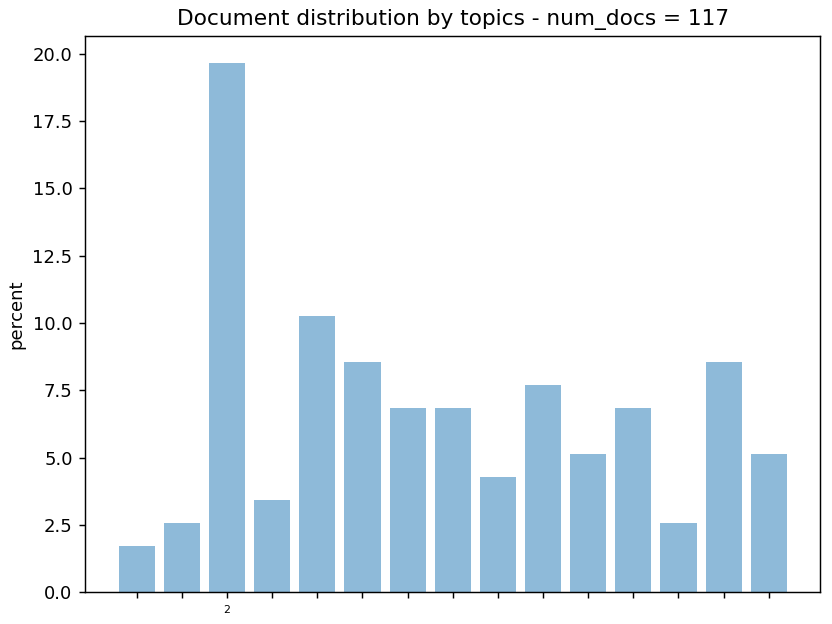
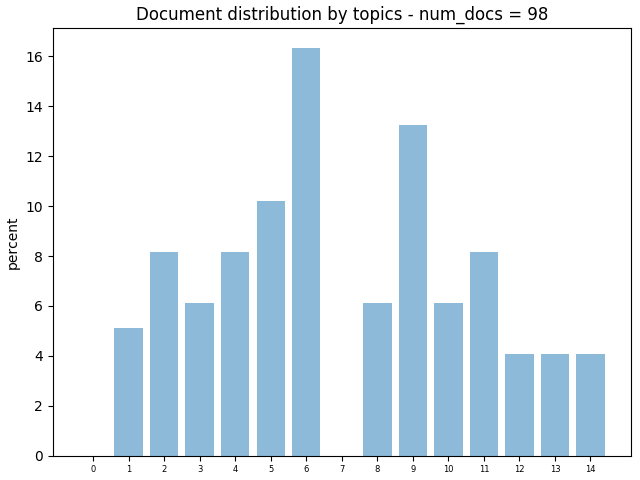
fix error not match title when run twice

diff --git a/master.py b/master.py
@@ -8,8 +8,12 @@ from text_classification import my_map
 from collections import Counter
 from multiprocessing import Process
 import time, datetime
-from sklearn.externals import joblib
+import warnings
 
+
+
+
+warnings.filterwarnings('ignore', category=UserWarning)
 
 
 class master:
@@ -32,8 +36,6 @@ class master:
 
             print('run crawler...')
             self.crawler.run()
-            joblib.dump(self.crawler.new_stories, 'new_stories.pkl')
-            # self.crawler.new_stories = joblib.load('new_stories.pkl')
 
             print('run text classification...')
             self.text_clf.reset()
@@ -88,22 +90,22 @@ class master:
                 continue
             if ndocs > 1000:
                 event = event_detection(domain, os.path.join(self.text_clf.result_dir, domain),
-                                        root_dir='event_detection', num_topics=100)
+                                        root_dir='event_detection', num_topics=100, max_iter=1000)
             elif 500 < ndocs and ndocs <= 1000:
                 event = event_detection(domain, os.path.join(self.text_clf.result_dir, domain),
-                                        root_dir='event_detection', num_topics=50)
+                                        root_dir='event_detection', num_topics=50, max_iter=1000)
             elif 350 < ndocs and ndocs <= 500:
                 event = event_detection(domain, os.path.join(self.text_clf.result_dir, domain),
-                                        root_dir='event_detection', num_topics=30)
+                                        root_dir='event_detection', num_topics=30, max_iter=1000)
             elif 200 < ndocs and ndocs <= 350:
                 event = event_detection(domain, os.path.join(self.text_clf.result_dir, domain),
-                                        root_dir='event_detection', num_topics=20)
+                                        root_dir='event_detection', num_topics=20, max_iter=1000)
             elif 50 < ndocs and ndocs <= 200:
                 event = event_detection(domain, os.path.join(self.text_clf.result_dir, domain),
-                                        root_dir='event_detection', num_topics=15)
+                                        root_dir='event_detection', num_topics=15, max_iter=1000)
             else:
                 event = event_detection(domain, os.path.join(self.text_clf.result_dir, domain),
-                                        root_dir='event_detection', num_topics=10)
+                                        root_dir='event_detection', num_topics=10, max_iter=1000)
             events.update({domain : event})
             handle = Process(target=events[domain].run_demo)
             handle.start()

diff --git a/event_detection/create_lda_data.py b/event_detection/create_lda_data.py
@@ -8,11 +8,11 @@ import os
 
 
 
-def build_vocab(dataset, output_vocab, root_dir):
+def build_vocab(dataset, output_vocab, root_dir, title_map):
     vectorizer = TfidfVectorizer(ngram_range=(1, 1), max_df=0.6, min_df=2,
                                  stop_words=utils.load_data_from_list(os.path.join(root_dir, 'stopwords.txt')))
     stack = os.listdir(dataset)
-    contents = []
+    contents = []; titles = []
     while (len(stack) > 0):
         file_name = stack.pop()
         file_path = os.path.join(dataset, file_name)
@@ -20,7 +20,10 @@ def build_vocab(dataset, output_vocab, root_dir):
             utils.push_data_to_stack(stack, file_path, file_name)
         else:
             with open(file_path, 'r', encoding='utf-8') as f:
-                contents.append(f.read().lower())
+                content = f.read()
+                base = os.path.basename(file_name)
+                titles.append(title_map[base])
+                contents.append(content.lower())
     # change vectorizer to ensure length of document greater than 0
     if len(contents) < 100:
         vectorizer.min_df = 1
@@ -30,13 +33,11 @@ def build_vocab(dataset, output_vocab, root_dir):
     with open(output_vocab, 'w', encoding='utf-8') as f:
         vocab = {w:i for i, w in enumerate(vectorizer.vocabulary_.keys())}
         f.write(u'\n'.join(vocab.keys()))
-    return contents
+    return contents, titles
 
 
-def get_title(dataset, output_dir, output_file):
+def update_title_map(dataset, title_map):
     stack = os.listdir(dataset)
-    utils.mkdir(output_dir)
-    titles = []
     while (len(stack) > 0):
         file_name = stack.pop()
         file_path = os.path.join(dataset, file_name)
@@ -46,13 +47,13 @@ def get_title(dataset, output_dir, output_file):
             with open(file_path, 'r', encoding='utf-8') as f:
                 data = unicodedata.normalize('NFKC', f.read().strip())
                 title = data.lower().split(u'\n')[0]
-                titles.append(title)
-    exist = False
-    if os.path.isfile(output_file):
-        exist = True
-    with open(output_file, 'a', encoding='utf-8') as f:
-        if exist:
-            f.write(u'\n')
+                base = os.path.basename(file_name)
+                title_map.update({base : title})
+
+
+def save_titles_to_file(titles, output_dir, output_file):
+    utils.mkdir(output_dir)
+    with open(output_file, 'w', encoding='utf-8') as f:
         f.write(u'\n'.join(titles))
 
 
@@ -92,4 +93,4 @@ if __name__ == '__main__':
     contents = build_vocab('clean_dataset')
     vocab = load_vocab('vocab.dat')
     get_lda_data(contents, vocab)
-    get_title('dataset')
+    update_title_map('dataset')

diff --git a/event_detection/detect_event.py b/event_detection/detect_event.py
@@ -23,6 +23,7 @@ class event_detection:
         self.clean_dataset_dir = os.path.join(self.domain_output_dir, 'clean_dataset')
         self.title_dir = os.path.join(self.domain_output_dir, 'titles')
         self.title_file = os.path.join(self.title_dir, 'titles.dat')
+        self.title_map_file = os.path.join(self.title_dir, 'title_map_file.pkl')
         self.lda_dataset_dir = os.path.join(self.domain_output_dir, 'lda_dataset')
         self.lda_train_file = os.path.join(self.lda_dataset_dir, 'mult.dat')
         self.lda_gibb_dir = os.path.join(self.root_dir, 'lda_gibb')
@@ -36,14 +37,32 @@ class event_detection:
         self.vocab_file = os.path.join(self.domain_output_dir, 'vocab.dat')
 
 
+    def load_title_map(self):
+        try:
+            return joblib.load(self.title_map_file)
+        except:
+            return None
+
+
+    def save_title_map(self, title_map):
+        joblib.dump(title_map, self.title_map_file, compress=True)
+
+
     def prepare_data(self):
         # prepare LDA dataset
+        title_map = self.load_title_map()
+        if title_map == None:
+            title_map = {}
+        lda.update_title_map(self.dataset, title_map)
+        print('There are %d titles in title_map' % (len(title_map)))
         preprocessing.remove_stop_postag(self.dataset, self.clean_dataset_dir)
-        contents = lda.build_vocab(self.clean_dataset_dir, self.vocab_file, self.root_dir)
+        contents, titles = lda.build_vocab(self.clean_dataset_dir, self.vocab_file,
+                                           self.root_dir, title_map)
         print('There are %s docs in domain %s' % (len(contents), self.domain))
         vocab = lda.load_vocab(self.vocab_file)
         lda.get_lda_data(contents, vocab, self.lda_dataset_dir, self.lda_train_file)
-        lda.get_title(self.dataset, self.title_dir, self.title_file)
+        lda.save_titles_to_file(titles, self.title_dir, self.title_file)
+        self.save_title_map(title_map)
 
 
     def reset_all(self):

diff --git a/event_detection/topics.py b/event_detection/topics.py
@@ -154,7 +154,7 @@ def merge_print(merge, topic_titles):
     for m in merge:
         print('merge group:')
         for mm in m:
-            print(topic_titles[mm])
+            print('topic %d - %s' % (mm, topic_titles[mm]))
         print('**************************')
 
 
@@ -180,7 +180,8 @@ def draw_document_distribution(trending_topics, count_topics, total):
     objects = []
     for k in xrange(len(count_topics)):
         try:
-            _ = trending_topics[k]
+            if len(count_topics) >= 50:
+                _ = trending_topics[k]
             objects.append(unicode(k))
         except:
             objects.append(u'')
@@ -192,7 +193,7 @@ def draw_document_distribution(trending_topics, count_topics, total):
     plt.title('Document distribution by topics - num_docs = %d' % (total))
     # plt.show()
     plt.tight_layout(pad=0.4, w_pad=1.4, h_pad=1.0)
-    plt.savefig('static/documents_distribution.png', dpi=130)
+    plt.savefig('static/documents_distribution.png', dpi=100)
 
 
 def get_jaccard_similarity(set1, set2):
